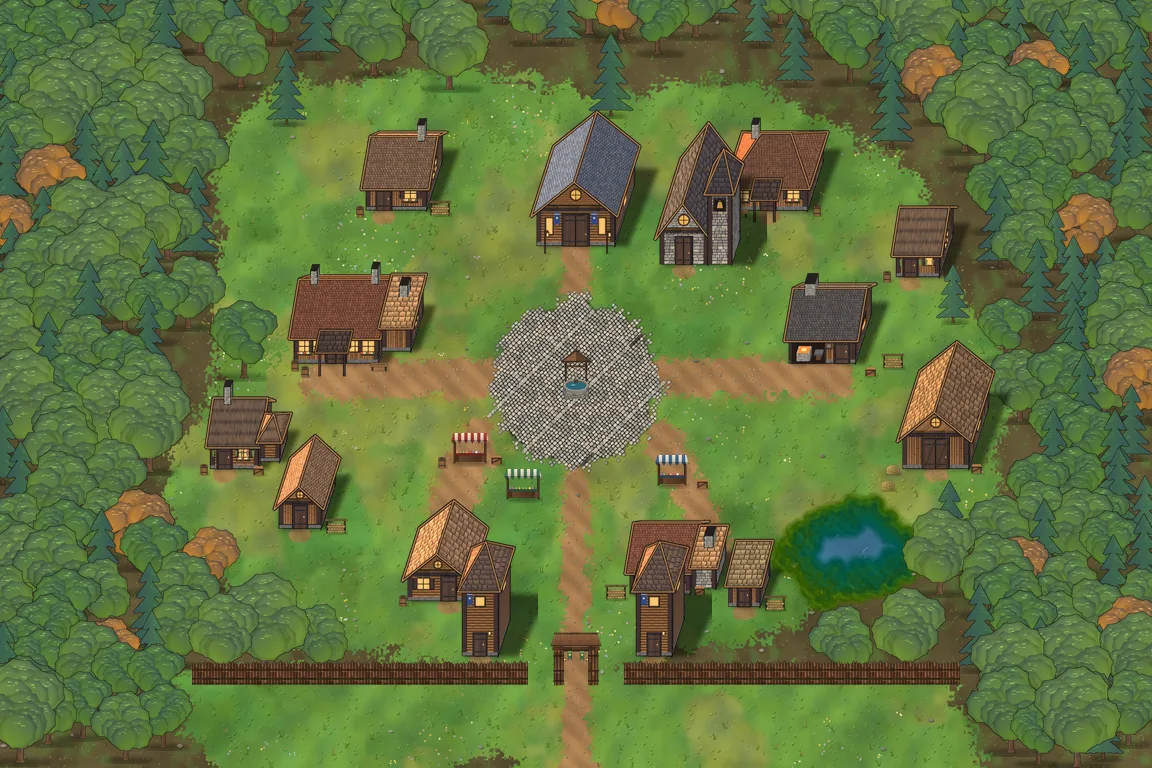
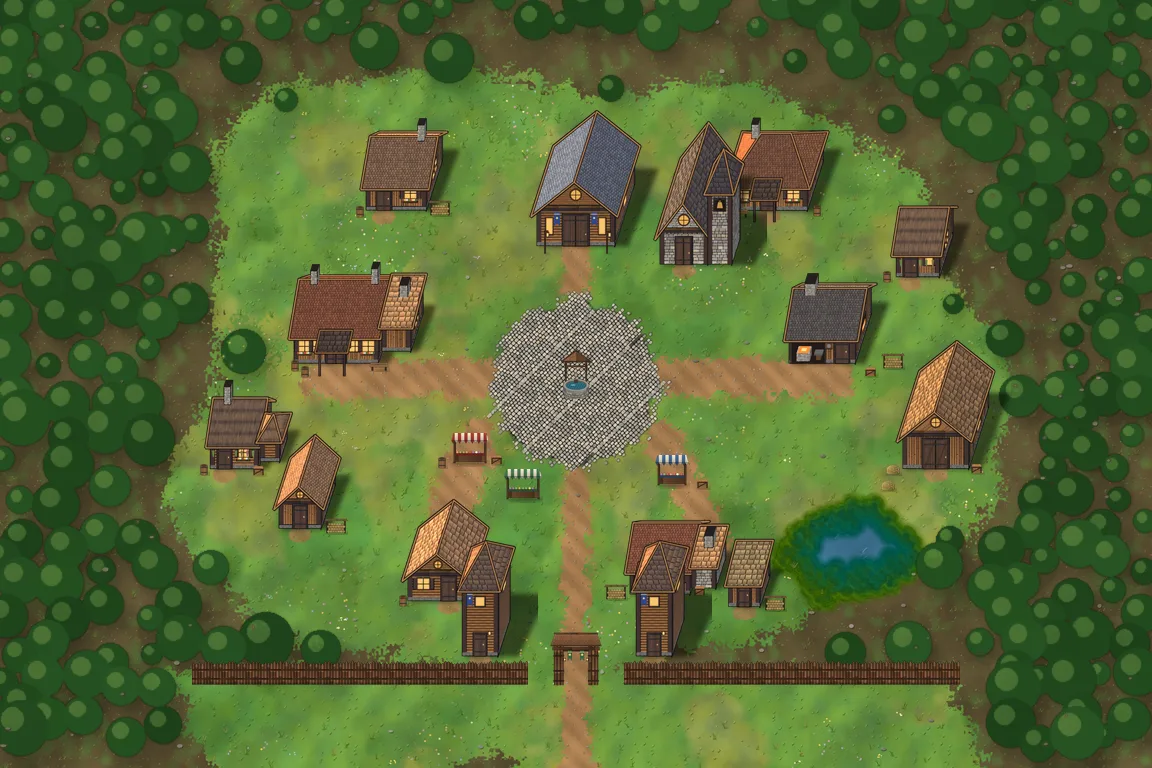
Minikarten zeichnen die neuen Bäume als Kronen
Claude-Session: https://claude.ai/code/session_01TxcDgCGDXB5iarBWHVLHjr

diff --git a/realtime/werkzeug/welt/karte.py b/realtime/werkzeug/welt/karte.py
@@ -28,7 +28,7 @@ def karte(rid, index):
             for o in d.get('objekte', []):
                 D = OBJ.get(o['objekt'])
                 if not D: continue
-                if o['objekt'].startswith('wald_baum') and not o['objekt'].startswith('wald_baumstamm'): baeume.append((o, D))
+                if (o['objekt'].startswith('wald_baum') and not o['objekt'].startswith('wald_baumstamm')) or o['objekt'].startswith(('stil_eiche', 'stil_linde', 'stil_tanne', 'stil_herbst')): baeume.append((o, D))
                 else: sonst.append((o, D))
     # Kronen: Mitte etwas über dem Fuß (das Bild steht auf dem Fuß), Größe aus der Bildbreite
     schatten = Image.new('L', bild.size, 0); kronen = Image.new('RGBA', bild.size, (0, 0, 0, 0))
